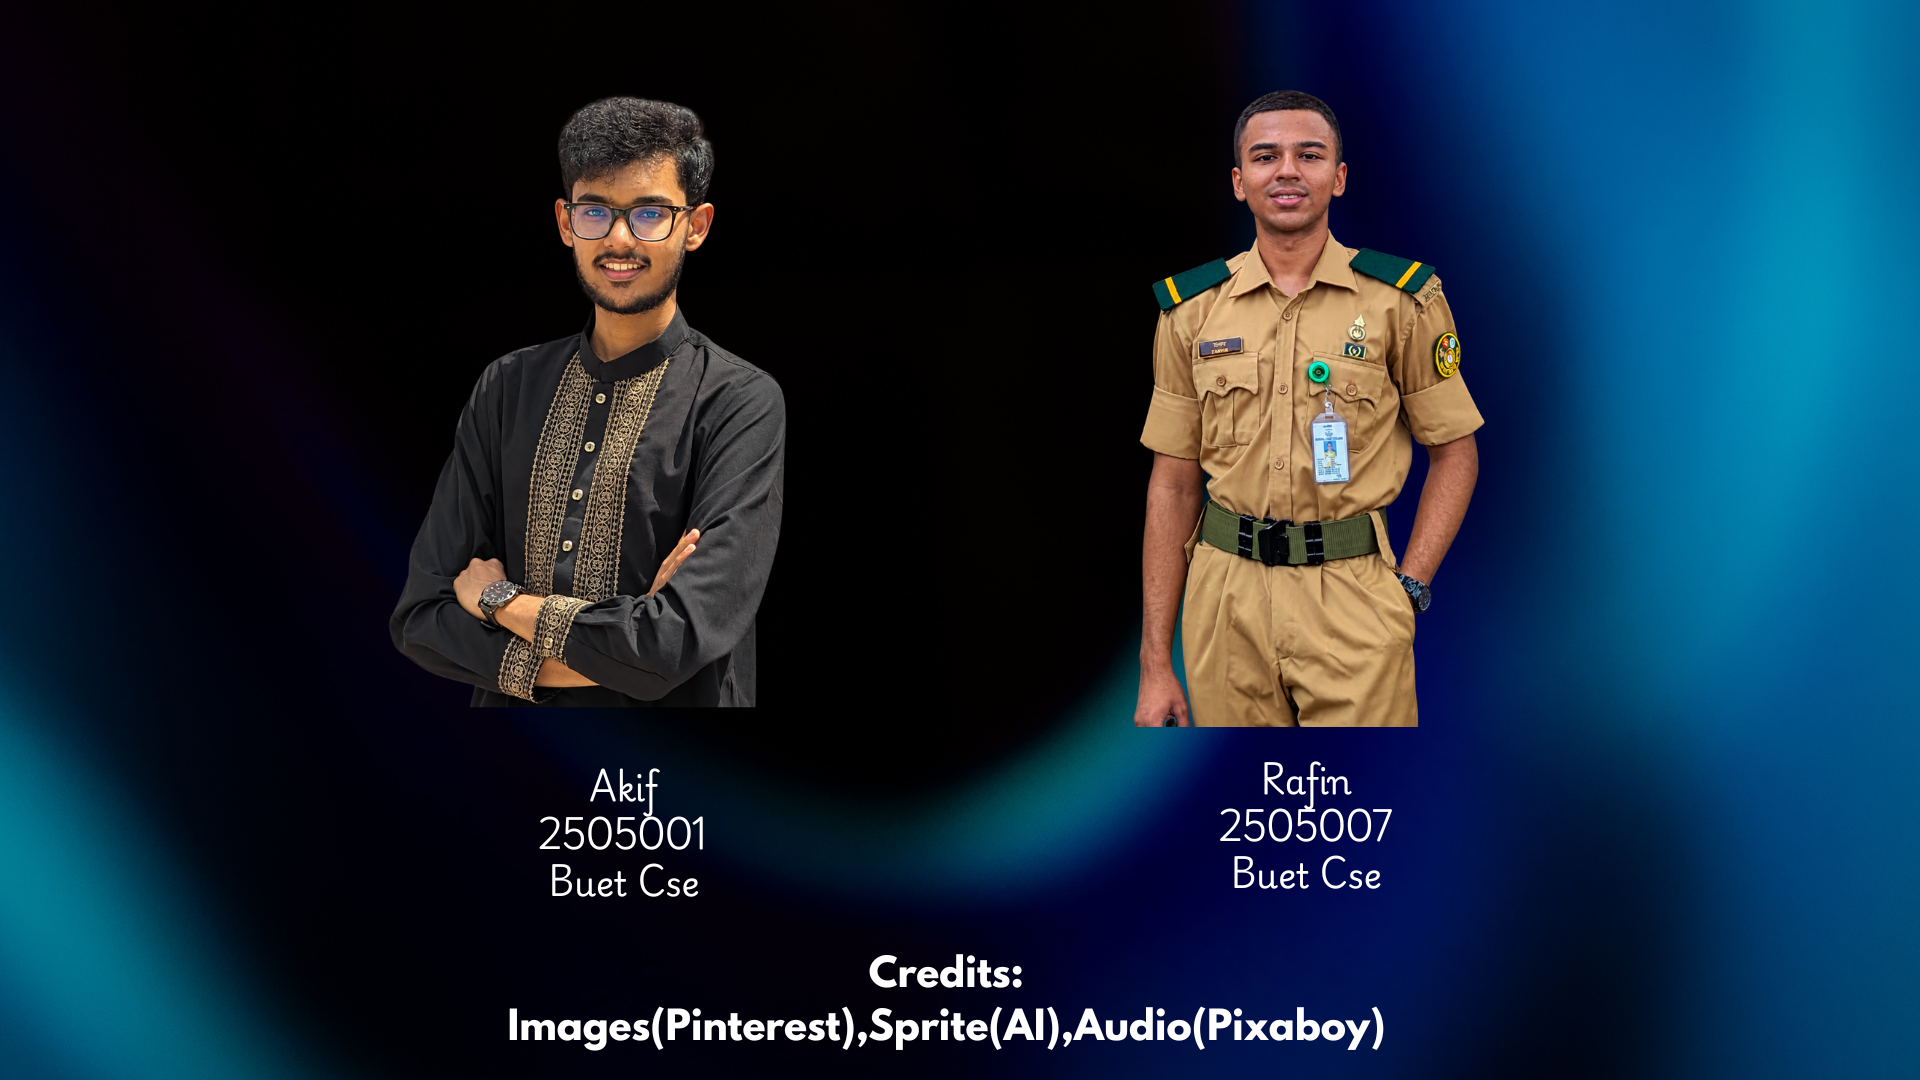
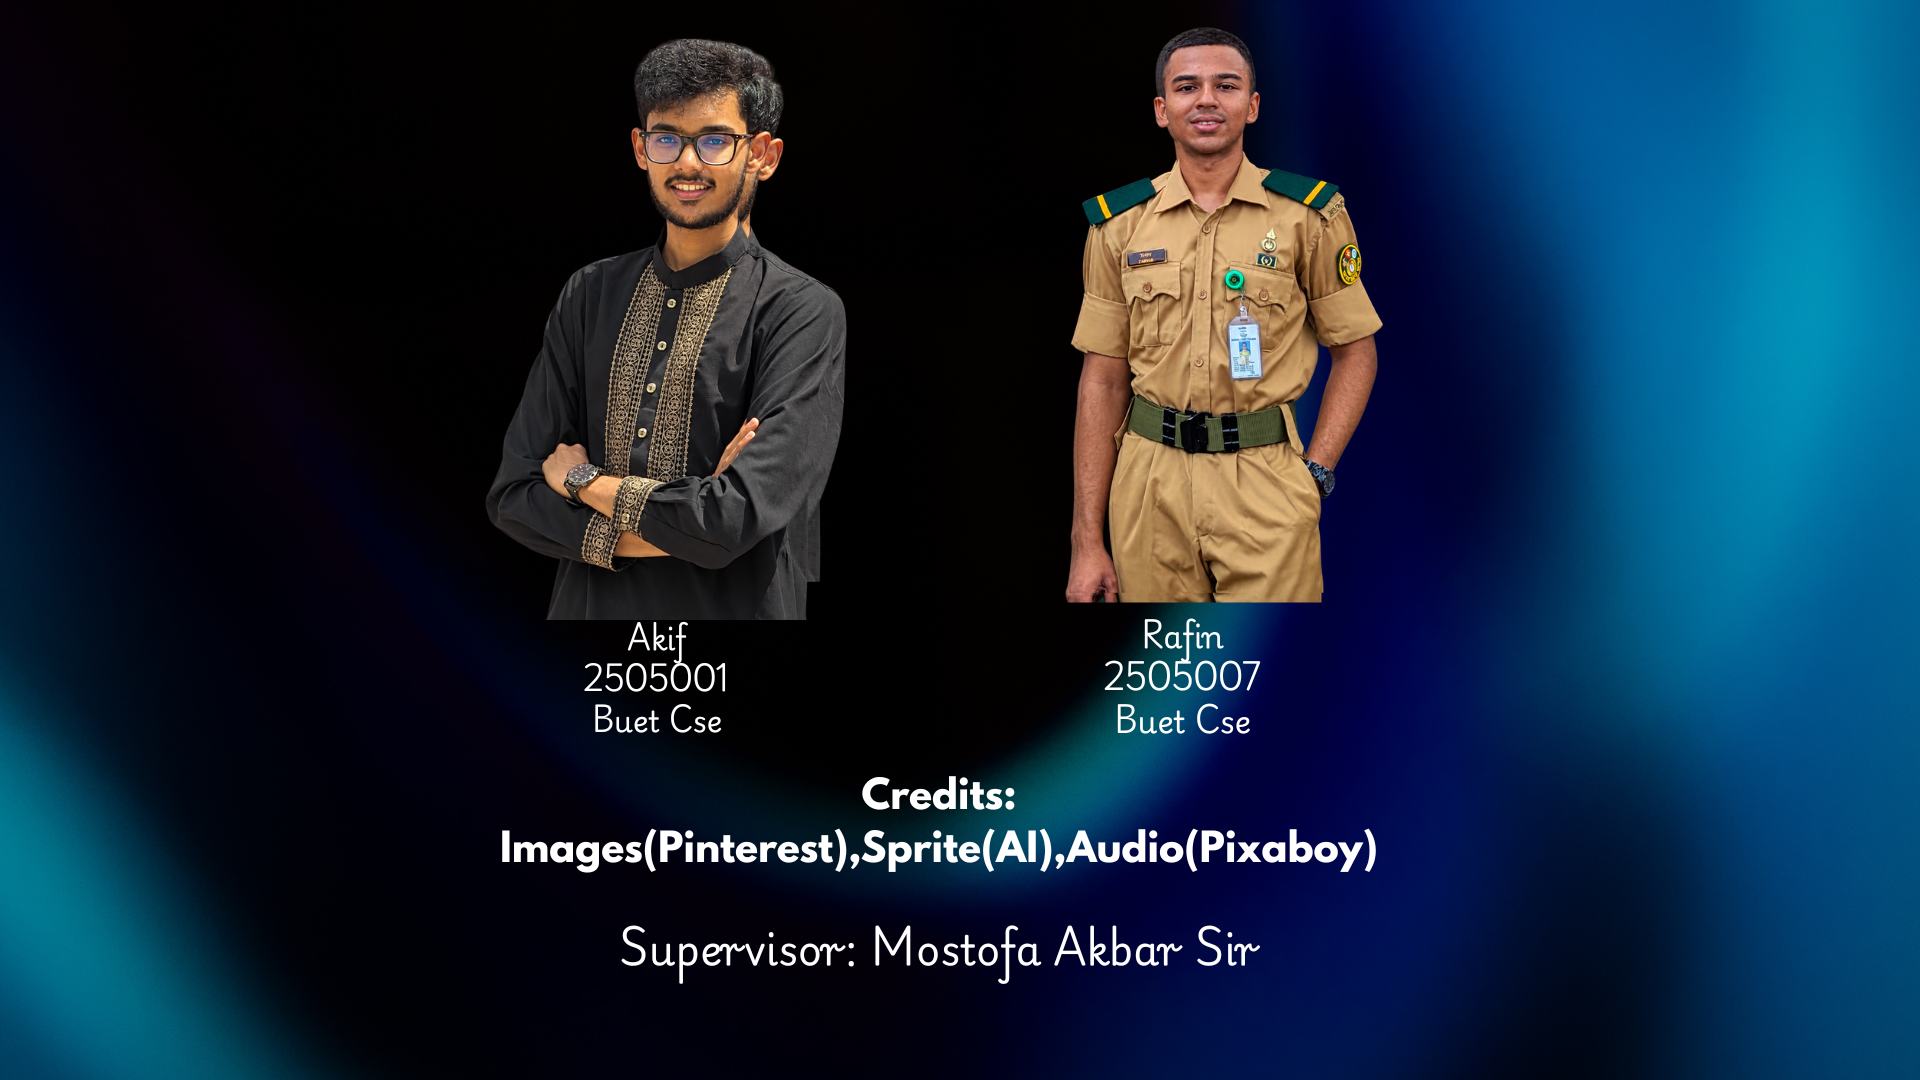
rafin sucks

Changed region(s): [[0.1875, 0.0306, 0.7188, 0.825], [0.5312, 0.0306, 0.7812, 0.7028], [0.25, 0.8556, 0.7188, 0.9778]]

diff --git a/physics.c b/physics.c
@@ -5,7 +5,7 @@
 
 
 //Define
-#define MAX_BALL_SPEED 1400.00
+#define MAX_BALL_SPEED 1300.00
 #define CUP_CAPTURE_SPEED 250.00
 
 
@@ -47,7 +47,7 @@ SurfaceType SurfaceAt(Hole *hole,Vector2 p)
 //Adding wind at  zones
 Vector2 WindAt(Hole *hole, Vector2 p)
 {
-    Vector2 w={0.0 , 0.0};
+    Vector2 w={0.0,0.0};
     for(int i=0;i<hole->zone_count;i++)
     {
         if(CheckCollisionPointRec(p,hole->zones[i].area))
@@ -82,7 +82,7 @@ void ApplyWind(Ball *b,Vector2 wind,float dt)
 //Check collision with wall
 void CheckWallCollision(Ball *b, Hole *h)
 {
-    for (int i = 0; i < h->wall_count; i++)
+    for (int i=0;i<h->wall_count;i++)
     {
         Rectangle r=h->walls[i].rect;
 
@@ -96,14 +96,10 @@ void CheckWallCollision(Ball *b, Hole *h)
         if (distanceSquared<=b->radius*b->radius) // whether the distance is less than the radius of the ball
         {
             float distance = sqrtf(distanceSquared);
-
             Vector2 normal; //The direction perpendicular to the surface the the ball should be pushed away from
-            if (distance > 0.0)
+            if (distance>0.0)
             {
-                normal = (Vector2){ 
-                    dx / distance,
-                    dy / distance    // making "normal" a unit vector "unit normal"= it has only direction and length 1, so that at the time of the ball being bounced off, we can just alter the velocity direction along the "unit normal " vector.
-                };
+                normal=(Vector2){dx/distance,dy/distance};// making "normal" a unit vector "unit normal"= it has only direction and length 1, so that at the time of the ball being bounced off, we can just alter the velocity direction along the "unit normal " vector.     
             }
             else              // when distance is zero (ball is inside the rectangle) then dx/distance this would lead to 0/0.
             {
@@ -111,9 +107,9 @@ void CheckWallCollision(Ball *b, Hole *h)
                 float right=fabsf(b->pos.x - (r.x + r.width));
                 float top=fabsf(b->pos.y - r.y);
                 float bottom=fabsf(b->pos.y - (r.y + r.height)); //determining distances form each edge of the wall
-
-                float minDist=fminf(fminf(left, right),
-                                      fminf(top, bottom)); // Finding the distance of the ball from the nearest edge among four edges.
+                
+                float minDist=fminf(fminf(left, right),fminf(top, bottom));
+                                       // Finding the distance of the ball from the nearest edge among four edges.
 
                 if (minDist == left)
                     normal=(Vector2){-1.0, 0.0};  // As distance from the left edge is shortest , so we can assume that the ball entered the wall through the left side, and so it should be bounced off from the left edge.
@@ -127,7 +123,6 @@ void CheckWallCollision(Ball *b, Hole *h)
 
             b->pos.x=closestX+normal.x*b->radius; 
             b->pos.y=closestY+normal.y*b->radius; //push the ball along the direction of the normal , the center of balls coordinate should be minimum one radius away from the closest edge. Because for that case, the closest point of the ball is just at the touching state with the edge. 
-
             //Handle bouncing off with necessary velocity
 
             float velocityAlongNormal = b->vel.x*normal.x+b->vel.y*normal.y; //just we took the dot product.We know normal always acts at the outer direction of the wall. So,If velocity alongnormal is negative then it means ball is moving towards the opposite direction of the normal and moving into the wall. Positive means same direction and moving away ffrom the wall. If the ball is moving along the parallel line of the wall, the this will be zero.
@@ -138,7 +133,6 @@ void CheckWallCollision(Ball *b, Hole *h)
 
                 b->vel.x -=(1.0+h->walls[i].bounce)* velocityAlongNormal * normal.x;  //for perfect elastic collision, when b->vel.x=10, and velocityalongnormal is -10, then simply this equation converts the velocity to -10 , it bounces off to the opposite direction with same velocity. That is exactly what we want. 
                 b->vel.y -=(1.0f + h->walls[i].bounce)* velocityAlongNormal * normal.y;
-
                 b->hitWall=true;
             }
         }
@@ -148,8 +142,8 @@ void CheckWallCollision(Ball *b, Hole *h)
 //Check collision with circular hole
 int CheckCupCollision(Ball *b,Hole *h)
 {
-    float dx= b->pos.x - h->cup_pos.x;
-    float dy= b->pos.y - h->cup_pos.y;
+    float dx=b->pos.x-h->cup_pos.x;
+    float dy=b->pos.y-h->cup_pos.y;
     float distance = sqrtf(dx*dx + dy*dy);
     float capture_dist= h->cup_radius - b->radius;
 

diff --git a/render.c b/render.c
@@ -38,8 +38,8 @@ void RenderInit(RenderState *r,Vector2 ballpos)
 //The pupose is not to show the camera outside the golf course
 void ClampCamera(Camera2D *cam,Rectangle bounds) // bounds means the boundaries of the golf course inside which we want to enclose the camera
 {
-    float halfW=(GetScreenWidth()*0.5)/cam->zoom;// if width is 1200, then camera sees 640 pixel to the left and right of its target. Suppose if the target is at (1000,600) then cameras left position will be 1000-640, right will be 1000+640. But this creates a problem, left may become negative, that means camera will try to show outside the golf course
-    float halfH=(GetScreenHeight()*0.5)/cam->zoom; 
+    float halfW=(GetScreenWidth()*0.5);// if width is 1200, then camera sees 640 pixel to the left and right of its target. Suppose if the target is at (1000,600) then cameras left position will be 1000-640, right will be 1000+640. But this creates a problem, left may become negative, that means camera will try to show outside the golf course
+    float halfH=(GetScreenHeight()*0.5); //height width of the camera
                                                       // so min and max cases are needed  
                                                       //halfW- width of the camera
                                                       //halfH-Height of the camera
@@ -113,7 +113,6 @@ void DrawCourse(const Hole *h)
     for(int i=0;i<specks;i++)
     {
         DrawRectangle(((int)GetRandomValue(h->bounds.x , h->bounds.x+h->bounds.width)) , ((int)GetRandomValue(h->bounds.y , h->bounds.y+h->bounds.height)) ,2 ,2,dark);
-
     }
 
     //Draw surface zone
@@ -240,6 +239,7 @@ void DrawAimGuide(const Ball *b, const Hole *h, float angle, float power)
     float len=AIM_MAX_LEN*(0.35+0.65*power); //if power=1(max), then the len will be equal to max_len , this aim guide increases with the increment of power
     Color col=Fade(WHITE,0.55);
 
+
     for (float d=0.00;d<len;d+=21.0) //we are taking 21 pixels as one portion(generally 12 pixel dash + 9 pixel gap, again 12 pixel dash and 9 pixel gap)
     {
         DrawLineEx(       //draws a line mainly - (starting point,ending point, thickness,color)
@@ -263,25 +263,13 @@ void DrawPowerBar(float x,float y,float w,float h,float power) // Here power is 
 void DrawHUD(const Hole *h, const Ball *b, const Putter *p,int hole_index, int hole_count, int total)
 {
     int sw=GetScreenWidth(),sh=GetScreenHeight();
-
     int currentTotal = total + b->strokes;
 
     const char *scoreText = TextFormat("SCORE: %d",currentTotal);
     int scoreFontSize = 32;
     int scoreWidth = MeasureText(scoreText,scoreFontSize);
 
-    DrawRectangleRounded(
-        (Rectangle){
-            sw/2.0f - scoreWidth/2.0f - 20,
-            12,
-            scoreWidth + 40,
-            52
-        },
-        0.25f,
-        8,
-        Fade(BLACK,0.55f)
-    );
-
+    DrawRectangleRounded((Rectangle){sw/2.0f - scoreWidth/2.0f - 20, 12,scoreWidth + 40,52},0.25,8,Fade(BLACK,0.55f));
     DrawText(
         scoreText,
         sw/2 - scoreWidth/2,

diff --git a/main.c b/main.c
@@ -13,7 +13,7 @@
 #define MAX_PLAYERS 100
 #define MAX_NAME_LENGTH 30
 #define LEADERBOARD_FILE "leaderboard.txt" //For showing leaderboard including their name
-#define STROKE_LIMIT_OVER_PAR 5 //If this limit is crossed then automatic the game shifts to next level
+#define STROKE_LIMIT_OVER_PAR 4//If this limit is crossed then automatic the game shifts to next level
 #define HOLE_DONE_PAUSE 1.60f //pause time when one hole is completed(show birdie , par or else....)
 
 typedef struct
@@ -676,6 +676,10 @@ int main(void)
         switch (game.state) {
         case GS_PLAYING:
             // if(IsKeyPressed(KEY_N)) course_load(&game.course,"levels");
+            if(IsKeyPressed(KEY_N)){
+                course_advance(&game.course);
+                StartHole(&game);
+            }
             HideCursor();
             if (IsKeyPressed(KEY_R)) {
                 game.ball.pos = hole->tee_pos;
@@ -716,7 +720,7 @@ int main(void)
             }
 
             else if (game.ball.state == BALL_AIM && game.ball.strokes >= hole->par + STROKE_LIMIT_OVER_PAR) {
-                game.scores[game.course.current] = hole->par + STROKE_LIMIT_OVER_PAR;
+                game.scores[game.course.current] = hole->par + STROKE_LIMIT_OVER_PAR + 10;
                 game.hole_done_t = 0.0f;
                 game.state = GS_HOLE_DONE;
             }

diff --git a/types.h b/types.h
@@ -19,8 +19,8 @@ typedef enum
     SURF_MUD,
     SURF_WATER,
     SURF_BOOST,
-    SURF_COUNT, /* it will automatically update the suraface numbers that i have created.....(rafin) 
-                    so next time we can just add a new surface, without changing the count*/
+    SURF_COUNT, //it will automatically update the suraface numbers that i have created.....(rafin) 
+                    //so next time we can just add a new surface, without changing the count//
 }SurfaceType;
 
 
